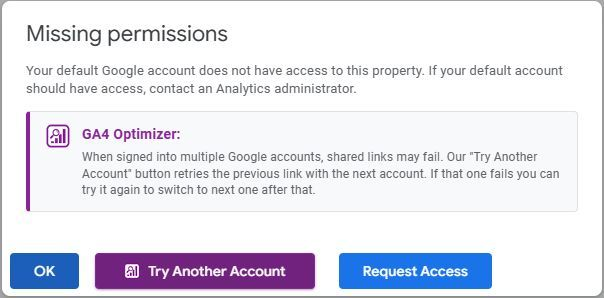
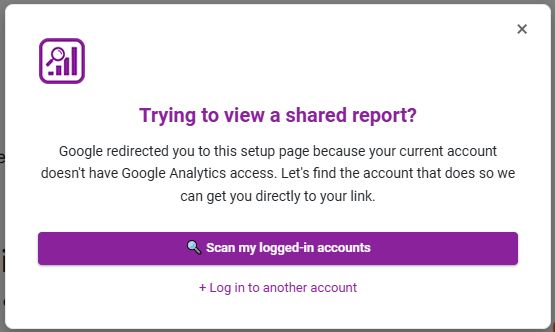
blog-update-account-switcher

diff --git a/src/blog/ga4-missing-permissions-error-share-report-links.md b/src/blog/ga4-missing-permissions-error-share-report-links.md
@@ -3,12 +3,26 @@ faq_schema: >
   {
     "@context": "https://schema.org",
     "@type": "FAQPage",
-    "mainEntity": [{
+    "mainEntity":[{
+      "@type": "Question",
+      "name": "How do you share a Standard report in Google Analytics 4 (GA4)?",
+      "acceptedAnswer": {
+        "@type": "Answer",
+        "text": "To share a Standard report, navigate to it, click the 'Share this report' icon in the top-right corner, and select 'Copy Link'. You can also just copy the URL from your browser. Be aware that colleagues may still encounter the multi-account permissions error."
+      }
+    }, {
+      "@type": "Question",
+      "name": "How do you share an Exploration report in Google Analytics 4 (GA4)?",
+      "acceptedAnswer": {
+        "@type": "Answer",
+        "text": "To share an Exploration report, first click the 'Share Exploration' icon in the top right to make it read-only for others. Then, you can copy the URL from your browser to share the link. Explorations do not have a native 'Copy Link' button."
+      }
+    }, {
       "@type": "Question",
       "name": "Why does GA4 say 'You do not have access to the account or property' when I know I do?",
       "acceptedAnswer": {
         "@type": "Answer",
-        "text": "This error almost always occurs when you are logged into multiple Google accounts. GA4 is trying to open the link with your default account (often a personal one) instead of the account that has the correct permissions. The GA4 Optimizer extension fixes this by letting you instantly retry the link with your other accounts."
+        "text": "This error almost always occurs when you are logged into multiple Google accounts. GA4 is trying to open the shared link with your default account (often a personal one) instead of the account that has the correct permissions."
       }
     }, {
       "@type": "Question",
@@ -17,98 +31,104 @@ faq_schema: >
         "@type": "Answer",
         "text": "The fastest solution is to use the free GA4 Optimizer browser extension. It adds a 'Try Another Account' button to the error message, which lets you cycle through your logged-in Google accounts with one click until you find the one with access."
       }
-    }, {
-      "@type": "Question",
-      "name": "How do I share a Standard report in Google Analytics 4 (GA4)?",
-      "acceptedAnswer": {
-        "@type": "Answer",
-        "text": "To share a Standard report, navigate to it, click the 'Share this report' icon in the top-right corner, and select 'Copy Link'. You can also just copy the URL from your browser. Be aware that colleagues may still encounter the multi-account permissions error."
-      }
-    }, {
-      "@type": "Question",
-      "name": "How do I share an Exploration report in Google Analytics 4 (GA4)?",
-      "acceptedAnswer": {
-        "@type": "Answer",
-        "text": "To share an Exploration report, first click the 'Share Exploration' icon in the top right to make it read-only for others. Then, you can copy the URL from your browser to share the link. Recommending a tool like GA4 Optimizer can help your colleagues avoid permission errors."
-      }
     }]
   }
 layout: layouts/post.njk
 author: Alex Merrick
-title: "GA4 'Missing Permissions' Error? How to Share & Open Report Links"
-date: 2025-11-02T18:14:00.000-05:00
+title: "How to Share Reports & Explorations in GA4 (And Fix Broken Links)"
+date: 2026-03-17T10:04:00.000-05:00
 thumbnail: /img/thumbnails/thumb-share-reports.jpg
 post_image: /img/thumbnails/banner-share-reports.jpg
-description: Fix the frustrating GA4 "Missing permissions" error when sharing report links. Learn why it happens and how to solve it instantly with our free extension.
+description: Learn the exact steps to share Standard Reports and Explorations in GA4. Plus, discover why your shared links keep breaking and how to fix the "Missing permissions" error instantly.
 ---
 
-It’s a tale as old as time: a colleague pings you a link to a crucial Google Analytics report. You click it, ready to find that key insight, but instead of data, you hit a familiar, frustrating wall:
+You've just built the perfect report in Google Analytics 4. You’ve applied the right segments, filtered the data, and uncovered a massive insight. Now, you just need to send it to your team or client. 
+
+Sharing a report in GA4 should be simple, but Google handles Standard Reports and Explorations differently. Worse yet, even if you share the link correctly, **there is a hidden trap that causes your links to fail for your colleagues** with a frustrating "Missing permissions" error.
+
+In this guide, we'll show you exactly how to share both types of reports in GA4, and how to guarantee your shared links always open perfectly using a simple, free tool.
+
+---
+
+## How to Share a Standard Report in GA4
+
+Standard reports (like your Traffic Acquisition or Pages and Screens reports) are the easiest to share because they are automatically available to anyone with access to your GA4 property.
+
+Here is how to share a direct link to your exact view:
+
+1. Open the Standard Report you want to share and apply any date ranges, filters, or comparisons you need.
+2. In the top-right corner of the GA4 interface, look for the **Share this report** icon (it looks like three connected dots).
+3. Click the icon to open the share panel.
+4. Click **Share Link**. 
+5. Click **Copy Link**. 
+
+You can now paste this link into Slack, Teams, or an email. When a colleague clicks it, GA4 will load the exact report, complete with the date ranges and filters you applied. However, see how most users report not being able to open the links below due to hidden trap in Google's system.
+
+---
+
+## How to Share an Exploration Report in GA4
+
+Explorations are GA4’s custom reporting tool. By default, **Explorations are private**. Even if a colleague has Admin access to your GA4 property, they cannot see your Explorations until you explicitly share them with everyone who has access to the property.
+
+Here is how to share an Exploration:
+
+1. In the top-right corner, click the **Share Exploration** icon (it looks like two people with a plus icon). 
+3. *Note: Once you click this, the Exploration becomes read-only for everyone else. They can view it, but if they want to edit it, or even change the date range then they will need to click the duplicate button inside it to duplicate into their own account so they can modify it as needed.*
+4. Once the Exploration is shared, **simply copy the URL from your browser's address bar where the exploration is**. 
+
+Unlike Standard Reports, there is no "Copy Link" button for Explorations. The browser URL is the link you need to share.
+
+---
+
+## The Hidden Trap: Why GA4 Shared Links Fail
+
+You followed the steps above. You sent the link to your client or boss. Five minutes later, you get a message: *"It says I don't have access?"*
 
 > **Missing permissions**
 > You do not have access to the account or property. Contact an Analytics administrator who has the Manage Users permission.
 
-You stare at the screen in disbelief. *"But I was just in that property five minutes ago! I know I have access!"*
+You check their permissions, they definitely have access. So why did the link break? 
 
-Nine times out of ten, you *do* have permission. The problem is getting Google to use the right account. In this guide, we'll explain why this happens and how to fix it for good—whether you're sharing the link or stuck staring at the error.
+This is the most common frustration in GA4, and it happens because of **Google's multi-account login system**. 
 
-![Drakeposting meme showing disapproval for the GA4 missing permissions error and approval for the GA4 Optimizer 'Try Another Account' button.](/img/drake-share-report.jpg)
-
----
-
-### Why This Happens: The Multi-Account Maze
-
-The problem isn't your permissions. It’s your browser's loyalty to the **wrong Google account.**
-
-When you're signed into multiple Google accounts (work, personal, client, etc.), your browser designates one as the "default" (`authuser=0`). When you click a GA4 link, it automatically tries to open it with that default account.
-
-If your default account is your personal Gmail, Google will show the "Missing permissions" error, completely ignoring the fact that another one of your logged-in accounts *does* have access.
+When you're signed into multiple Google accounts on your browser (e.g., your personal Gmail and your work email), Google assigns them an index number (`authuser=0`, `authuser=1`, etc.). When you copy a link, it often hardcodes *your* specific number into the URL. When your colleague clicks it, their browser tries to open it with *their* default account—which is often the wrong one. Google Analytics gets confused and throws the error.
 
 ---
 
-### The Old Way vs. The One-Click Fix
+## The Fix: How to Guarantee Your Shared Links Always Work
 
-For years, the only solutions were painfully manual:
-*   **The "GA4 Shuffle":** Copy the URL, open a new browser profile, paste, log in, and hope you pick the right account.
-*   **The Interrogation:** Ask the person who shared the link which property and report it is, then navigate there yourself.
+For years, the only solution was to tell your colleagues to teach them about complicated "authuser" system Google has, or what most people did was to tell them how to navigate the right property, then how to naivate to "Explore", and then explain what report name to look for in there. It's an icredibly frustrating system but don't fret we got a fix for you!
 
-Both are slow, tedious, and pull you right out of your workflow.
+We built a completely free Chrome Extension to fix this exact problem automatically. When you install [GA4 Optimizer](https://chromewebstore.google.com/detail/ga4-optimizer/hlldjkhoepkephgaeifgbelgchncfnjj?utm_source=gaoptimizer.com&utm_medium=website&utm_campaign=blog_share_reports), it supercharges your sharing workflow for both the sender and the receiver:
 
-Our free [GA4 Optimizer extension](https://chromewebstore.google.com/detail/ga4-optimizer/hlldjkhoepkephgaeifgbelgchncfnjj?utm_source=gaoptimizer.com&utm_medium=website&utm_campaign=blog_post_cta) ends this frustration.
+### 1. For the Sender: The "Smart Share Link" Button
+When you open the share panel in a GA4 Standard Report, our extension automatically adds a **Copy Link with Smart Access Note** button alongside the native GA4 button. 
 
-The moment it detects the "Missing permissions" error, it adds a new, smarter button to the dialog box:
+Instead of just copying a broken URL, this button copies the link *along with a helpful note* explaining what to do if they get the permission error, preventing the back-and-forth messaging before it even happens.
 
-![GA4 Optimizer Missing Permission Solution](/img/missing-permissions-solution-ga4-optimizer.jpg)
+### 2. For the Receiver: The Smart Account Switcher
+If your colleague clicks a broken link, if they have this extension installed they will no longer be blocked trying to access your reports. 
 
-When you click **"Try Another Account,"** the extension instantly reloads the link using your next signed-in Google account (`authuser=1`, then `authuser=2`, etc.). You just click until the report loads.
+When GA4 throws a "Missing Permissions" error or event worse bring the user to "Welecome to Google Analytics" page asking them to create a new Google analytics property, our extension intercepts it and provides a **"Scan Logged-in Accounts"** button which quickly scans which the accounts the user has and allows the user to be able to re-attempt that link with one of their other logged in acocunts. 
 
-**No more copying links. No more switching profiles. Just one click.**
+![GA4 Optimizer banner button options](/img/missing-permissions-solution-ga4-optimizer.jpg)
 
----
+Once the accounts are scanned, the user can choose the account they know for sure has access. **No more going back and forth with your client or coleauge. No more having to troubleshoot the user's access.**
 
-### How to Make Sure Your Shared Links *Actually* Work
+![GA4 Optimizer Missing Permission Solution](/img/missing-permissions-solution-ga4-optimizer-2.jpg)
 
-If you're the one sharing GA4 links, how do you prevent this headache for your team?
-
-The best practice involves two simple steps:
-
-**1. Share the Right Way:**
-*   **For Standard Reports:** Navigate to the report, click the "Share this report" icon in the top-right, and select "Copy Link".
-*   **For Exploration Reports:** First, click the "Share Exploration" icon (two-person icon) in the top right corner. This makes the report read-only for others. Then, you can copy the URL from your browser to share.
-
-**2. Share the Solution:**
-Advise your team to install the free [GA4 Optimizer extension](https://chromewebstore.google.com/detail/ga4-optimizer/hlldjkhoepkephgaeifgbelgchncfnjj?utm_source=gaoptimizer.com&utm_medium=website&utm_campaign=blog_post_cta).
-
-When everyone has the tool, the multi-account problem disappears. Links just work. This is just one of over 15+ features we've built to make your work in GA4 easier so you can find insights faster.
+### Stop Fighting the GA4 Interface
+Sharing data should be the easiest part of your job. By adding [GA4 Optimizer](https://chromewebstore.google.com/detail/ga4-optimizer/hlldjkhoepkephgaeifgbelgchncfnjj?utm_source=gaoptimizer.com&utm_medium=website&utm_campaign=blog_share_reports) to your browser, you not only fix shared links, but you gain access to 15+ other features like 1-click Exit Pages reports, sticky table headers, and custom calculated metrics. 
 
 ---
 
 ## Frequently Asked Questions
 
 **Q: Why does GA4 say 'You do not have access to the account or property' when I know I do?**
-A: This error almost always occurs when you are logged into multiple Google accounts. GA4 is trying to open the link with your default account (often a personal one) instead of the account that has the correct permissions. The GA4 Optimizer extension fixes this by letting you instantly retry the link with your other accounts.
+A: It's possible that you might really not have access and may need to request it. However, in our exerience this error ussually occurs when you are logged into multiple Google accounts. GA4 is trying to open the link with your default account (often a personal one) instead of the account that has the correct permissions. The GA4 Optimizer extension fixes this by letting you instantly retry the link with your other accounts.
 
 **Q: How do I fix a shared GA4 report link that isn't working?**
-A: The fastest and easiest solution is to use the free GA4 Optimizer browser extension. It adds a 'Try Another Account' button to the error message, which lets you cycle through your logged-in Google accounts with one click until you find the one with access.
+A: The fastest and easiest solution is to use the free GA4 Optimizer browser extension. It adds a 'Scan Logged-in Accounts' button to the error message, which lets you picke from your logged-in Google accounts and to re-open the report that was not opening for you.
 
 **Q: How do I share a Standard report in Google Analytics 4 (GA4)?**
 A: To share a Standard report, navigate to it, click the 'Share this report' icon in the top-right corner, and select 'Copy Link'. You can also just copy the URL from your browser. Be aware that colleagues may still encounter the multi-account permissions error.
